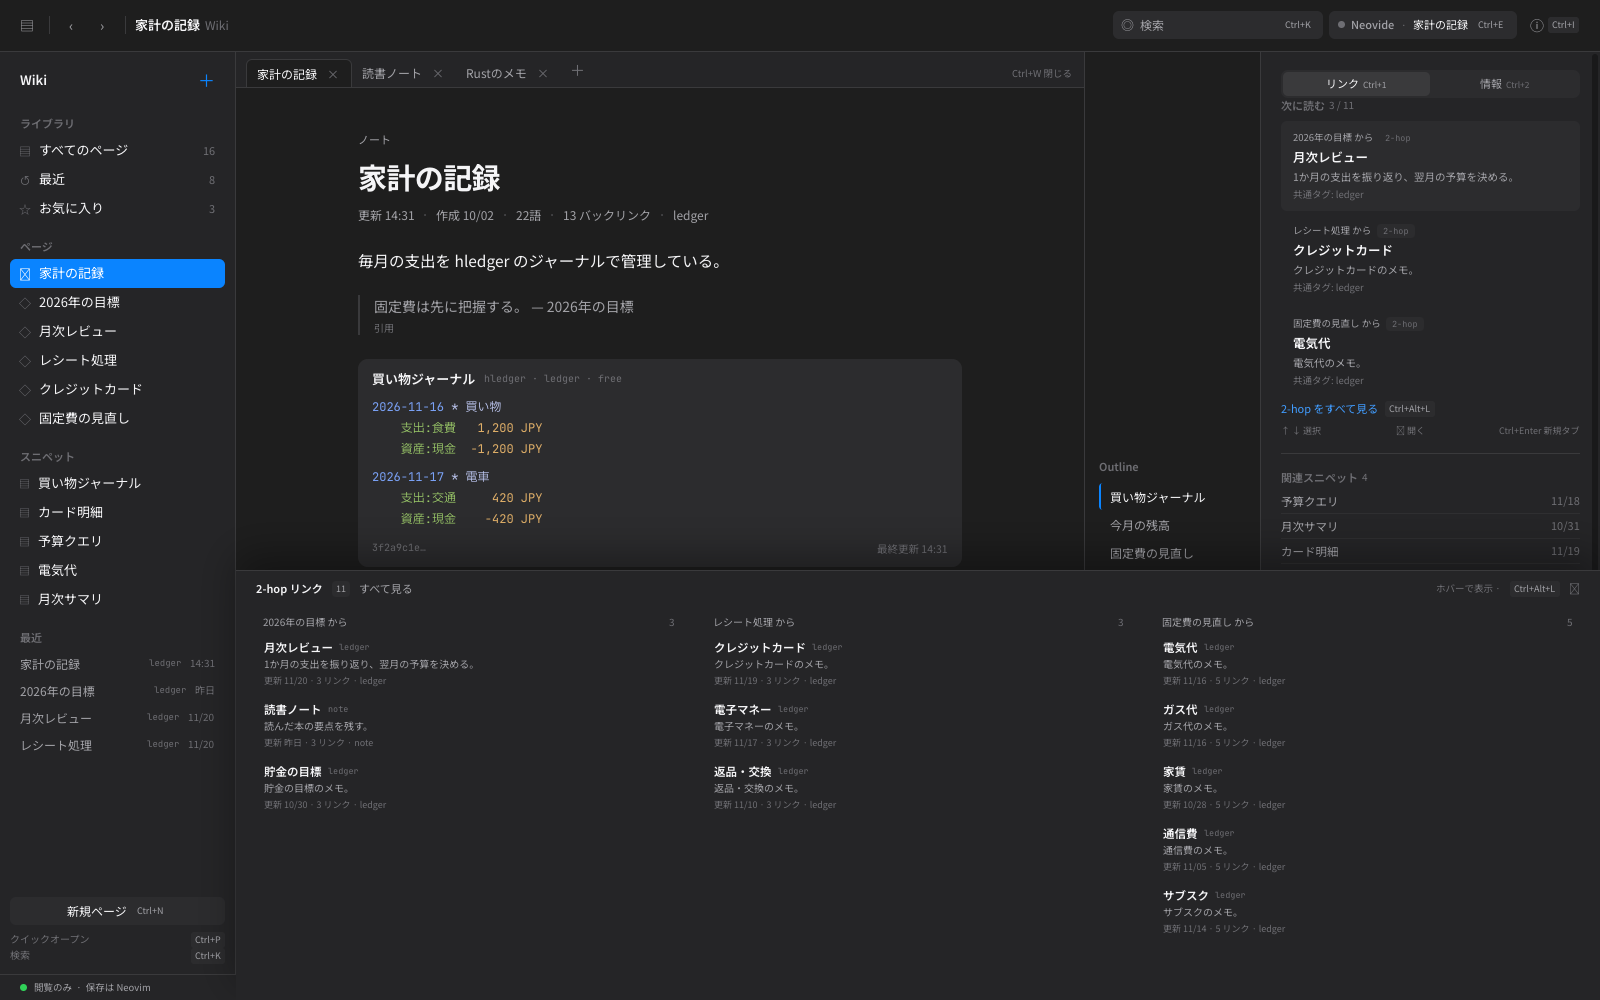
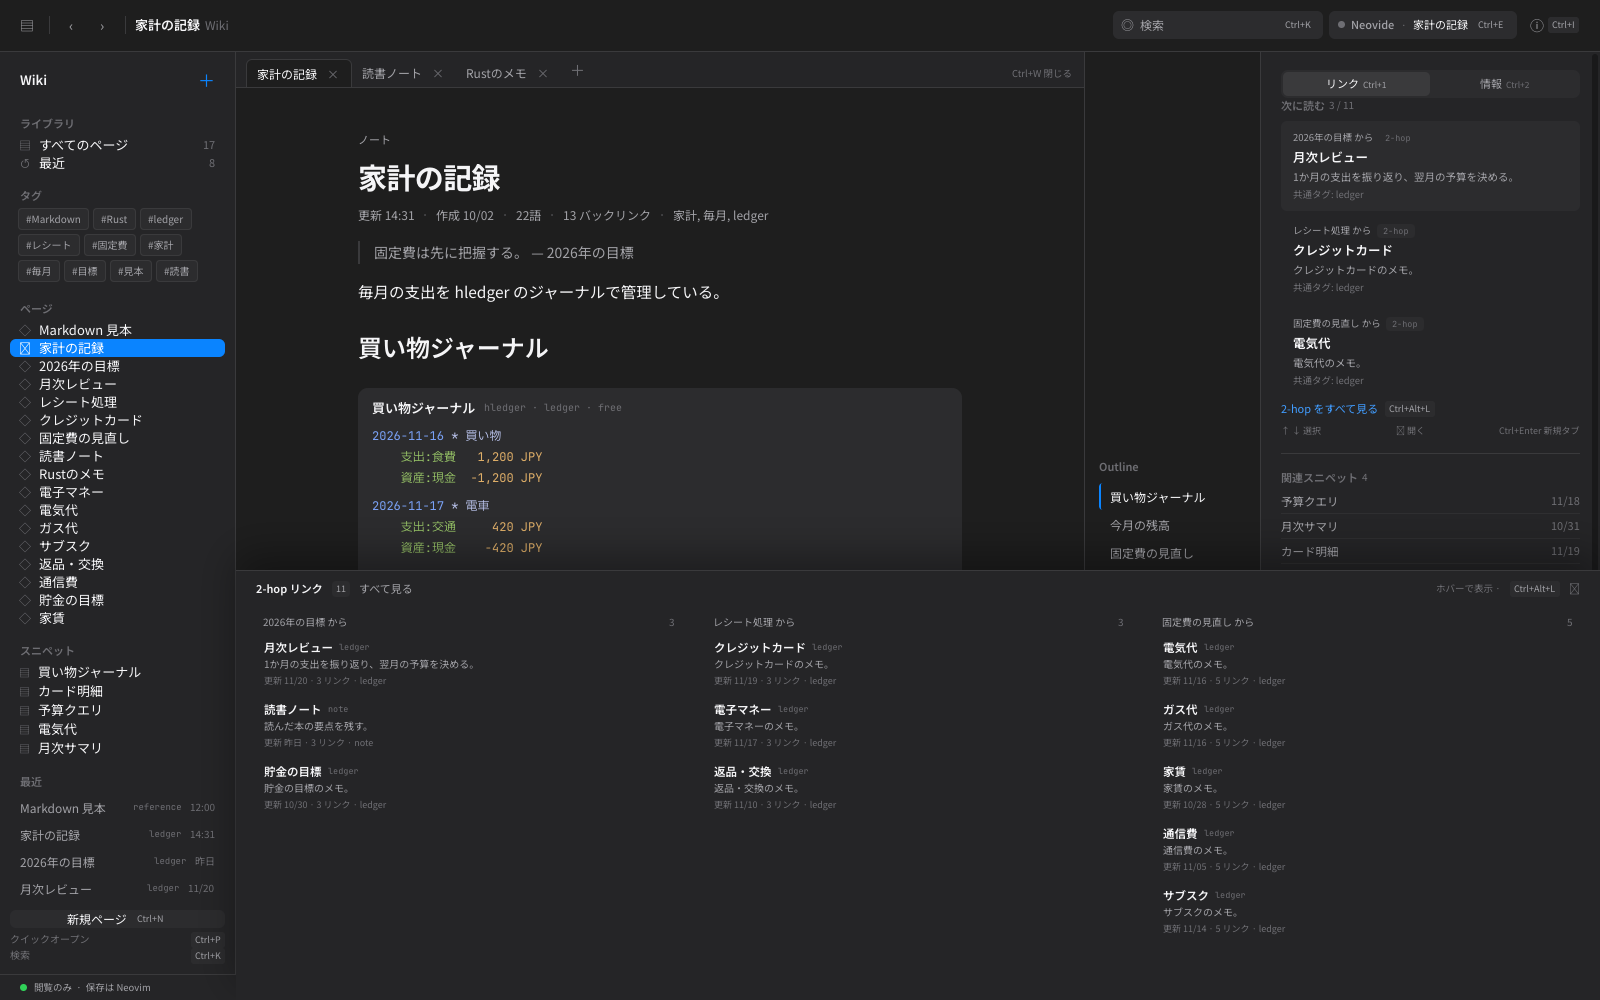
docs(wiki): add functional UI snapshots

diff --git a/docs/wiki-implementation-status.md b/docs/wiki-implementation-status.md
@@ -113,3 +113,17 @@ buffer dirty and records the current server body; `:WikiConflict` opens a
 side-by-side diff for manual merge. The GUI delete action requires a second
 click and sends the displayed revision. This is a 2-way manual flow, not a
 3-way merge against a common ancestor.
+
+## Functional UI evidence
+
+The GUI is no longer a static mock: the sidebar lists every page, tag chips
+filter pages/snippets, search uses the server, tabs load workspaces, outline
+entries scroll the article, links/2-hop rows open Content, new/rename/tags/
+delete/conflict routes call the server, and Markdown headings/lists/tables/
+quotes/code plus embeds/transclusions/interpreter panels are rendered from
+Content data. [Demo snapshot](wiki-demo.png) and [home snapshot](wiki-final.png)
+are generated from the live server.
+
+`target/debug/wiki-gui --page "Markdown 見本" --snapshot out.png` opens a page
+directly; the GUI polls every 2s, reconnects, and falls back to the 0600
+offline cache with an `オフラインキャッシュ` label.
